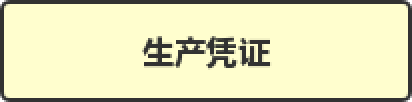
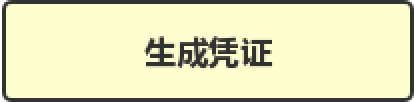
修改错别字

Changed region(s): [[0.3204, 0.3529, 0.6699, 0.6765], [0.0, 0.0, 0.0291, 1.0], [0.3495, 0.6176, 0.3786, 0.6471]]

diff --git a/src/main/resources/static/page/TGp/TGpfh/THldz/THldzList.html b/src/main/resources/static/page/TGp/TGpfh/THldz/THldzList.html
@@ -24,7 +24,7 @@
             <div class="layui-inline">
                 <div class="layui-input-inline">
                     <input type="text" class="layui-input layui-hide ztbh" id="ztbh" name="ztbh" />
-                    <input type="text" class="layui-input name" id="name" name="name" placeholder="清选择账套" disabled="disabled"/>
+                    <input type="text" class="layui-input name" id="name" name="name" placeholder="选择账套" disabled="disabled"/>
                 </div>
                 <a class="layui-btn select_btn" data-type="reload">选择账套</a>
             </div>

diff --git a/src/main/resources/static/page/TGp/TGpfh/TSg/TSgList.html b/src/main/resources/static/page/TGp/TGpfh/TSg/TSgList.html
@@ -24,7 +24,7 @@
             <div class="layui-inline">
                 <div class="layui-input-inline">
                     <input type="text" class="layui-input layui-hide ztbh" id="ztbh" name="ztbh" />
-                    <input type="text" class="layui-input name" id="name" name="name" placeholder="清选择账套" disabled="disabled"/>
+                    <input type="text" class="layui-input name" id="name" name="name" placeholder="选择账套" disabled="disabled"/>
                 </div>
                 <a class="layui-btn select_btn" data-type="reload">选择账套</a>
             </div>

diff --git a/src/main/resources/static/page/TGp/TGpjy/TGpjyList.html b/src/main/resources/static/page/TGp/TGpjy/TGpjyList.html
@@ -24,7 +24,7 @@
             <div class="layui-inline">
             <div class="layui-input-inline">
             	<input type="text" class="layui-input layui-hide ztbh" id="ztbh" name="ztbh" />
-                <input type="text" class="layui-input name" id="name" name="name" placeholder="清选择账套" disabled="disabled"/>
+                <input type="text" class="layui-input name" id="name" name="name" placeholder="选择账套" disabled="disabled"/>
             </div>
             <a class="layui-btn select_btn" data-type="reload">选择账套</a>
         </div>

diff --git a/src/main/resources/static/page/TRcyw/TRzqs/TRzqsList.html b/src/main/resources/static/page/TRcyw/TRzqs/TRzqsList.html
@@ -67,7 +67,7 @@
 			        <!--账套选择-->
 					<div class="layui-row">
 						<div class="layui-col-md6">
-					    	<input type="text" class="layui-input name" id="name" name="name" placeholder="清选择账套" disabled="disabled"/>
+					    	<input type="text" class="layui-input name" id="name" name="name" placeholder="选择账套" disabled="disabled"/>
 					    </div>
 					    <div class=layui-col-md3>
 					    	<input type="text" class="layui-input layui-hide ztbh" id="ztbh" name="ztbh" />
